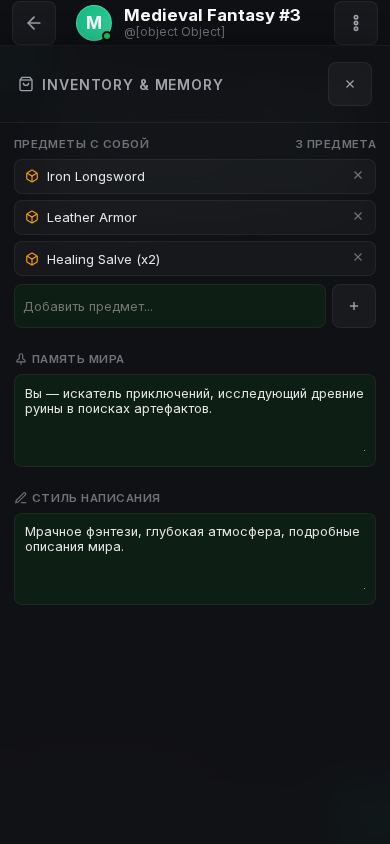
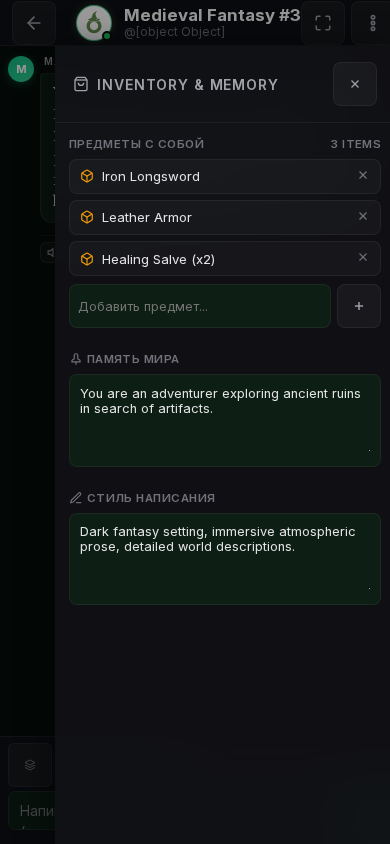
Fix round 2 audit issues: UI listeners, LocalStorage persistence, i18n, g4f model chain, TavernAI V2 import, and mobile paragraph edit button

diff --git a/app.js b/app.js
@@ -167,7 +167,15 @@ const I18N = {
     testConnection: "Test Connection",
     noMessages: "No chats yet. Tap + to start a new adventure!",
     messagesCount: "msgs",
-    lastMsg: "Last:"
+    lastMsg: "Last:",
+    scenFantasyTitle: "Medieval Fantasy",
+    scenFantasyDesc: "Knights, ancient ruins, magic, and dark dungeons.",
+    scenCyberpunkTitle: "Cyberpunk Netrunner",
+    scenCyberpunkDesc: "Neon alleys, neural implants, and megacorporations.",
+    scenZombieTitle: "Zombie Apocalypse",
+    scenZombieDesc: "Scavenge supplies and fight off hordes of infected.",
+    scenDetectiveTitle: "Noir Detective",
+    scenDetectiveDesc: "Rainy streets, dark secrets, and investigations."
   },
   es: {
     appTitle: "OdAI",
@@ -215,7 +223,15 @@ const I18N = {
     testConnection: "Probar Conexión",
     noMessages: "¡No hay chats aún. Toca + para empezar!",
     messagesCount: "mensajes",
-    lastMsg: "Último:"
+    lastMsg: "Último:",
+    scenFantasyTitle: "Fantasía Medieval",
+    scenFantasyDesc: "Caballeros, ruinas antiguas, magia y mazmorras oscuras.",
+    scenCyberpunkTitle: "Cyberpunk Netrunner",
+    scenCyberpunkDesc: "Callejones de neón, implantes neurales y megacorporaciones.",
+    scenZombieTitle: "Apocalipsis Zombi",
+    scenZombieDesc: "Busca suministros y lucha contra hordas de infectados.",
+    scenDetectiveTitle: "Detective Noir",
+    scenDetectiveDesc: "Calles lluviosas, secretos oscuros e investigaciones."
   },
   uk: {
     appTitle: "OdAI",
@@ -263,7 +279,15 @@ const I18N = {
     testConnection: "Перевірити з'єднання",
     noMessages: "Чатів поки немає. Натисніть +, щоб почати!",
     messagesCount: "повідомл.",
-    lastMsg: "Ост:"
+    lastMsg: "Ост:",
+    scenFantasyTitle: "Середньовічне Фентезі",
+    scenFantasyDesc: "Лицарі, стародавні руини, магія та похмурі підземелля.",
+    scenCyberpunkTitle: "Кіберпанк Нетранер",
+    scenCyberpunkDesc: "Неонові провулки, нейроімпланти та мегакорпорації.",
+    scenZombieTitle: "Зомбі Апокаліпсис",
+    scenZombieDesc: "Шукайте припаси та боріться з ордами заражених.",
+    scenDetectiveTitle: "Нуарний Детектив",
+    scenDetectiveDesc: "Дощові вулиці, темні таємниці та розслідування."
   },
   ru: {
     appTitle: "OdAI",
@@ -310,7 +334,15 @@ const I18N = {
     testConnection: "Проверить соединение",
     noMessages: "Чатов пока нет. Нажмите +, чтобы начать!",
     messagesCount: "сообщ.",
-    lastMsg: "Посл:"
+    lastMsg: "Посл:",
+    scenFantasyTitle: "Средневековое Фэнтези",
+    scenFantasyDesc: "Рыцари, древние руины, магия и мрачные подземелья.",
+    scenCyberpunkTitle: "Киберпанк Нетраннер",
+    scenCyberpunkDesc: "Неоновые переулки, нейроимпланты и мегакорпорации.",
+    scenZombieTitle: "Зомби Апокалипсис",
+    scenZombieDesc: "Добывайте припасы и сражайтесь с ордами зараженных.",
+    scenDetectiveTitle: "Нуарный Детектив",
+    scenDetectiveDesc: "Дождливые улицы, тёмные тайны и расследования."
   }
 };
 
@@ -402,8 +434,13 @@ const elements = {
   caiFileInput: document.getElementById('cai-file-input'),
   caiFileBtn: document.getElementById('cai-file-btn'),
 
+  // Элементы шапки и полноэкранного режима
+  fullscreenToggleBtn: document.getElementById('fullscreen-toggle-btn'),
+  mainSettingsBtn: document.getElementById('main-settings-btn'),
+  languageSelect: document.getElementById('language-select'),
+  saveSettingsBtn: document.getElementById('save-settings-btn'),
+  
   // Настройки ИИ и подключений
-  settingsBtn: document.getElementById('settings-btn'),
   settingsModal: document.getElementById('settings-modal'),
   closeSettingsModal: document.getElementById('close-settings-modal'),
   providerCards: document.querySelectorAll('.provider-card'),
@@ -671,6 +708,8 @@ function loadStateFromStorage() {
     try {
       const parsed = JSON.parse(saved);
       state.realismMode = parsed.realismMode !== undefined ? parsed.realismMode : true;
+      state.casualMode = parsed.casualMode !== undefined ? parsed.casualMode : false;
+      if (parsed.language) state.language = parsed.language;
       state.engineConfig = parsed.engineConfig || state.engineConfig;
 
       if (parsed.chats && Array.isArray(parsed.chats) && parsed.chats.length > 0) {
@@ -728,6 +767,8 @@ function saveStateToStorage() {
     chats: state.chats,
     currentChatId: state.currentChatId,
     realismMode: state.realismMode,
+    casualMode: state.casualMode,
+    language: state.language,
     engineConfig: state.engineConfig
   };
   localStorage.setItem('odai_app_state', JSON.stringify(dataToSave));
@@ -913,20 +954,33 @@ function setupEventListeners() {
     elements.caiFileInput?.addEventListener('change', handleCAIFileImport);
   }
 
+  // Fullscreen toggle
+  elements.fullscreenToggleBtn?.addEventListener('click', toggleAppFullscreen);
+
   // Настройки
-  elements.settingsBtn?.addEventListener('click', () => openModal(elements.settingsModal));
+  elements.mainSettingsBtn?.addEventListener('click', () => openModal(elements.settingsModal));
   elements.closeSettingsModal?.addEventListener('click', () => closeModal(elements.settingsModal));
+
+  // Язык интерфейса
+  elements.languageSelect?.addEventListener('change', (e) => {
+    state.language = e.target.value;
+    applyI18nLanguage(state.language);
+    saveStateToStorage();
+  });
   
-  // Accordion Items in Fullscreen Settings
-  const accordionItems = document.querySelectorAll('.accordion-item[data-provider]');
+  // Accordion Items in Fullscreen Settings (Providers & Settings Sections)
+  const accordionItems = document.querySelectorAll('.accordion-item[data-provider], .settings-accordion-item');
   accordionItems.forEach(item => {
-    const header = item.querySelector('.accordion-header');
+    const header = item.querySelector('.accordion-header, .settings-accordion-header');
     if (header) {
       header.addEventListener('click', () => {
-        accordionItems.forEach(i => i.classList.remove('active'));
-        item.classList.add('active');
-        const provider = item.dataset.provider;
-        state.engineConfig.mode = provider;
+        if (item.dataset.provider) {
+          document.querySelectorAll('.accordion-item[data-provider]').forEach(i => i.classList.remove('active'));
+          item.classList.add('active');
+          state.engineConfig.mode = item.dataset.provider;
+        } else {
+          item.classList.toggle('active');
+        }
       });
     }
   });
@@ -1277,10 +1331,11 @@ function handleCAIFileImport(event) {
   reader.onload = (e) => {
     try {
       const parsed = JSON.parse(e.target.result);
-      const name = parsed.name || parsed.char_name || "Импортированный персонаж";
-      const greeting = parsed.greeting || parsed.first_mes || `Вы встречаете ${name}.`;
-      const description = parsed.description || parsed.char_persona || "";
-      const personality = parsed.personality || parsed.mes_example || "";
+      const dataObj = parsed.data || parsed;
+      const name = dataObj.name || dataObj.char_name || parsed.name || "Импортированный персонаж";
+      const greeting = dataObj.greeting || dataObj.first_mes || parsed.greeting || `Вы встречаете ${name}.`;
+      const description = dataObj.description || dataObj.char_persona || parsed.description || "";
+      const personality = dataObj.personality || dataObj.mes_example || parsed.personality || "";
 
       const newChat = {
         id: 'chat_' + Date.now(),
@@ -1657,7 +1712,13 @@ function renderStoryFeed() {
       };
       toolbar.appendChild(copyBtn);
 
-      // Swipes Counter & Navigation (‹ 1/3 ›)
+      // Edit button (✏) for touch/mobile
+      const editBtn = document.createElement('button');
+      editBtn.className = 'msg-action-btn';
+      editBtn.title = 'Редактировать';
+      editBtn.innerHTML = `<svg width="13" height="13" viewBox="0 0 24 24" fill="none" stroke="currentColor" stroke-width="2"><path d="M12 20h9"/><path d="M16.5 3.5a2.121 2.121 0 0 1 3 3L7 19l-4 1 1-4L16.5 3.5z"/></svg>`;
+      editBtn.onclick = (e) => { e.stopPropagation(); enableInlineEdit(content, index); };
+      toolbar.appendChild(editBtn);
       if (swipes.length > 1) {
         const swipeNav = document.createElement('div');
         swipeNav.className = 'msg-swipe-nav';
@@ -2521,7 +2582,7 @@ function updateUIState() {
   });
 
   if (elements.geminiKeyInput) elements.geminiKeyInput.value = state.engineConfig.geminiKey || state.engineConfig.apiKey || '';
-  if (elements.geminiModelSelect) elements.geminiModelSelect.value = state.engineConfig.geminiModel || 'gemini-1.5-flash';
+  if (elements.geminiModelSelect) elements.geminiModelSelect.value = state.engineConfig.geminiModel || 'auto';
   if (elements.openrouterKeyInput) elements.openrouterKeyInput.value = state.engineConfig.openrouterKey || '';
   if (elements.openrouterModelInput) elements.openrouterModelInput.value = state.engineConfig.openrouterModel || 'meta-llama/llama-3-70b-instruct';
   if (elements.serverUrlInput) elements.serverUrlInput.value = state.engineConfig.serverUrl || '';

diff --git a/index.html b/index.html
@@ -231,32 +231,32 @@
           <div class="scenario-icon">
             <svg width="24" height="24" viewBox="0 0 24 24" fill="none" stroke="currentColor" stroke-width="2"><path d="M14.5 17.5 3 6V3h3l11.5 11.5"/><path d="m13 19 6-6"/><path d="M16 16 20 20"/><path d="M19 21 21 19"/></svg>
           </div>
-          <div class="scenario-title">Средневековое Фэнтези</div>
-          <div class="scenario-desc">Рыцари, древние руины, магия и мрачные подземелья.</div>
+          <div class="scenario-title" data-i18n="scenFantasyTitle">Средневековое Фэнтези</div>
+          <div class="scenario-desc" data-i18n="scenFantasyDesc">Рыцари, древние руины, магия и мрачные подземелья.</div>
         </div>
 
         <div class="scenario-card" data-scenario="cyberpunk">
           <div class="scenario-icon">
             <svg width="24" height="24" viewBox="0 0 24 24" fill="none" stroke="currentColor" stroke-width="2"><rect x="2" y="2" width="20" height="8" rx="2"/><rect x="2" y="14" width="20" height="8" rx="2"/><line x1="6" y1="6" x2="6.01" y2="6"/><line x1="6" y1="18" x2="6.01" y2="18"/></svg>
           </div>
-          <div class="scenario-title">Киберпанк Нетраннер</div>
-          <div class="scenario-desc">Неоновые переулки, нейроимпланты и мегакорпорации.</div>
+          <div class="scenario-title" data-i18n="scenCyberpunkTitle">Киберпанк Нетраннер</div>
+          <div class="scenario-desc" data-i18n="scenCyberpunkDesc">Неоновые переулки, нейроимпланты и мегакорпорации.</div>
         </div>
 
         <div class="scenario-card" data-scenario="zombie">
           <div class="scenario-icon">
             <svg width="24" height="24" viewBox="0 0 24 24" fill="none" stroke="currentColor" stroke-width="2"><circle cx="12" cy="12" r="10"/><path d="m4.93 4.93 4.24 4.24"/><path d="m14.83 9.17 4.24-4.24"/><path d="m14.83 14.83 4.24 4.24"/><path d="m9.17 14.83-4.24 4.24"/><circle cx="12" cy="12" r="4"/></svg>
           </div>
-          <div class="scenario-title">Зомби Апокалипсис</div>
-          <div class="scenario-desc">Добывайте припасы и сражайтесь с ордами зараженных.</div>
+          <div class="scenario-title" data-i18n="scenZombieTitle">Зомби Апокалипсис</div>
+          <div class="scenario-desc" data-i18n="scenZombieDesc">Добывайте припасы и сражайтесь с ордами зараженных.</div>
         </div>
 
         <div class="scenario-card" data-scenario="detective">
           <div class="scenario-icon">
             <svg width="24" height="24" viewBox="0 0 24 24" fill="none" stroke="currentColor" stroke-width="2"><circle cx="11" cy="11" r="8"/><line x1="21" y1="21" x2="16.65" y2="16.65"/></svg>
           </div>
-          <div class="scenario-title">Нуарный Детектив</div>
-          <div class="scenario-desc">Дождливые улицы, тёмные тайны и расследования.</div>
+          <div class="scenario-title" data-i18n="scenDetectiveTitle">Нуарный Детектив</div>
+          <div class="scenario-desc" data-i18n="scenDetectiveDesc">Дождливые улицы, тёмные тайны и расследования.</div>
         </div>
       </div>
 

diff --git a/styles.css b/styles.css
@@ -805,7 +805,7 @@ body {
   padding: 0.4rem 0.2rem 0.2rem;
 }
 
-.accordion-item {
+.accordion-item, .settings-accordion-item {
   background: #121216;
   border: 1px solid rgba(255, 255, 255, 0.08);
   border-radius: var(--radius-md);
@@ -813,12 +813,12 @@ body {
   transition: all 0.2s ease;
 }
 
-.accordion-item.active {
+.accordion-item.active, .settings-accordion-item.active {
   border-color: rgba(16, 185, 129, 0.5);
   box-shadow: 0 4px 20px rgba(16, 185, 129, 0.12);
 }
 
-.accordion-header {
+.accordion-header, .settings-accordion-header {
   display: flex;
   align-items: center;
   justify-content: space-between;
@@ -828,7 +828,7 @@ body {
   user-select: none;
 }
 
-.accordion-item.active .accordion-header {
+.accordion-item.active .accordion-header, .settings-accordion-item.active .settings-accordion-header {
   background: rgba(16, 185, 129, 0.1);
 }
 
@@ -882,14 +882,14 @@ body {
   border-radius: 50%;
 }
 
-.accordion-body {
+.accordion-body, .settings-accordion-body {
   padding: 1rem;
   display: none;
   background: #121216;
   border-top: 1px solid rgba(255, 255, 255, 0.05);
 }
 
-.accordion-item.active .accordion-body {
+.accordion-item.active .accordion-body, .settings-accordion-item.active .settings-accordion-body {
   display: block;
 }
 

diff --git a/server.py b/server.py
@@ -186,21 +186,26 @@ def generate_story():
 
         print(f"[OdAI Server] Generating AI story response via g4f ({lang})...")
         
+        candidate_models = ["gpt-4o-mini", "gpt-4o", "llama-3.1-70b", "gpt-3.5-turbo"]
         output_text = None
         last_err = None
 
-        try:
-            response = g4f.ChatCompletion.create(
-                model="gpt-4o-mini",
-                messages=messages
-            )
-            output_text = str(response).strip()
-        except Exception as e:
-            last_err = str(e)
-            print(f"[OdAI Server] g4f default model exception: {e}")
+        for model_name in candidate_models:
+            try:
+                response = g4f.ChatCompletion.create(
+                    model=model_name,
+                    messages=messages
+                )
+                res_str = str(response).strip()
+                if res_str and len(res_str) >= 5 and "NoValidHarFileError" not in res_str:
+                    output_text = res_str
+                    break
+            except Exception as e:
+                last_err = str(e)
+                print(f"[OdAI Server] g4f model '{model_name}' exception: {e}")
 
-        if not output_text or len(output_text) < 5 or "NoValidHarFileError" in output_text:
-            raise ValueError(f"g4f error: {last_err or 'Empty response'}")
+        if not output_text:
+            raise ValueError(f"g4f error: {last_err or 'Empty response from all models'}")
 
         print(f"[OdAI Server] Generation SUCCESS: {output_text[:80]}...")
 
